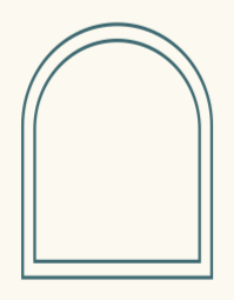
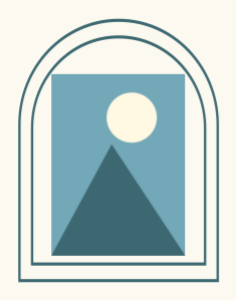
Make bubble annotations and contextual graphic lessons usable

diff --git a/src/creation-library/techniques.js b/src/creation-library/techniques.js
@@ -24,22 +24,26 @@ const fieldHelp={...titleHelp,motif:'rings/spark/sprig/stitch/confetti/materials
 function methodFields(method){
  const base=['write','relate','tear','window','split','weave'].includes(method.recipe)?['id']:common;
  let specific=fields[method.recipe];
- if(method.recipe==='graphic')specific=specific.filter(k=>method.defaults.shape?!['seed','waypoints'].includes(k):k!=='options'&&(k!=='waypoints'||method.defaults.motif==='trail'));
+ if(method.recipe==='graphic'){
+  specific=specific.filter(k=>method.defaults.shape?!['seed','waypoints'].includes(k):k!=='options'&&(k!=='waypoints'||method.defaults.motif==='trail'));
+  if(method.defaults.shape==='bubble')specific=[...specific,'text','fontFamily','fontSizePt'];
+ }
  if(method.recipe==='pattern'&&['echo','bands'].includes(method.defaults.pattern))specific=specific.filter(k=>!['options','strokeWidthMm'].includes(k));
  return [...base,...specific];
 }
 export function describeTechnique(id){
  const method=catalog.methods.find(m=>m.id===id);if(!method)throw Error('未知教程方法');
- const names=methodFields(method),help={...fieldHelp,...titleHelp,...(method.recipe==='accent'?{count:'数字点缀候选数量 1–24；指定 positions 时以其长度为准；避让可能减少实际数量',widthMm:'点缀组局部范围宽度，毫米；不会缩放实体',heightMm:'点缀组局部范围高度，毫米；不会缩放实体'}:{}),...(method.recipe==='tape'?{widthMm:'胶带摆放范围宽度，毫米；不会缩放实体',heightMm:'胶带摆放范围高度，毫米；不会缩放实体'}:{}),corePlace:'可选窗芯位置，使用 layer.update.place 的完整结构。传入时显示并定位窗芯；不传则隐藏保留。位置按裁下窗芯的外接框定位，保留原图裁切来源',strip:'已经放置并对准孔位的真实纸条节点 ID；不缩放或自动拉长',through:'按穿行顺序给 2–16 项 {target,sideAfter:"front"|"back",region? ,window?}；region 用 material.window 的 Region 开新孔，window 引用已有孔 ID，二选一。新孔窗芯隐藏保留；输出报告列出替代后的框与窗芯 ID',...(method.recipe==='write'?{box:'素材局部可写区域 [x,y,width,height]，各值为比例；需先观察图片，避开重要图案',text:'完整正文，最多 500 字；不截断，实际高度需看预览'}:{})};
+ const names=methodFields(method),help={...fieldHelp,...titleHelp,...(method.recipe==='accent'?{count:'数字点缀候选数量 1–24；指定 positions 时以其长度为准；避让可能减少实际数量',widthMm:'点缀组局部范围宽度，毫米；不会缩放实体',heightMm:'点缀组局部范围高度，毫米；不会缩放实体'}:{}),...(method.recipe==='tape'?{widthMm:'胶带摆放范围宽度，毫米；不会缩放实体',heightMm:'胶带摆放范围高度，毫米；不会缩放实体'}:{}),corePlace:'可选窗芯位置，使用 layer.update.place 的完整结构。传入时显示并定位窗芯；不传则隐藏保留。位置按裁下窗芯的外接框定位，保留原图裁切来源',strip:'已经放置并对准孔位的真实纸条节点 ID；不缩放或自动拉长',through:'按穿行顺序给 2–16 项 {target,sideAfter:"front"|"back",region? ,window?}；region 用 material.window 的 Region 开新孔，window 引用已有孔 ID，二选一。新孔窗芯隐藏保留；输出报告列出替代后的框与窗芯 ID',...(method.recipe==='write'?{box:'素材局部可写区域 [x,y,width,height]，各值为比例；需先观察图片，避开重要图案',text:'完整正文，最多 500 字；不截断，实际高度需看预览'}:{}),...(method.defaults.shape==='bubble'?{text:'气泡中的短批注；超出框内可写区域时报错'}:{})};
  if(method.id==='magazine-offset')help.caption='主图下方的可选短图注，仅对应 aliases 首项；不自动编造';
  const example=techniqueExample(method);
- return {...method,parameters:Object.fromEntries(names.map(k=>[k,{description:help[k],required:k==='id'||required[method.recipe].includes(k)||(k==='corePlace'&&method.defaults.reuseCore===true)||(method.id==='graphic-route'&&k==='waypoints')}])),geometryOptions:advancedShapeControls(method.defaults.shape||method.defaults.pattern),example:{materials:exampleMaterials.filter(a=>(example.parameters.aliases||[]).includes(a.alias)||example.before.some(op=>op.asset===a.alias)),prepare:example.before,note:'示例别名和已有节点来自本例准备步骤；实际调用替换成本次素材和节点。'},tool:{name:'creation_recipe',arguments:{kind:'technique',recipeId:id,transactionId:'unique-id',baseSceneRevision:'当前版本',parameters:example.parameters}}};
+ return {...method,parameters:Object.fromEntries(names.map(k=>[k,{description:help[k],required:k==='id'||required[method.recipe].includes(k)||(k==='corePlace'&&method.defaults.reuseCore===true)||(method.id==='graphic-route'&&k==='waypoints')||(method.defaults.shape==='bubble'&&k==='text')}])),geometryOptions:advancedShapeControls(method.defaults.shape||method.defaults.pattern),example:{materials:exampleMaterials.filter(a=>(example.parameters.aliases||[]).includes(a.alias)||example.before.some(op=>op.asset===a.alias)),prepare:example.before,note:'示例别名和已有节点来自本例准备步骤；实际调用替换成本次素材和节点。'},tool:{name:'creation_recipe',arguments:{kind:'technique',recipeId:id,transactionId:'unique-id',baseSceneRevision:'当前版本',parameters:example.parameters}}};
 }
 function validate(method,params){
  libraryID(params.id);const allowed=new Set(methodFields(method));
  for(const key of Object.keys(params))if(!allowed.has(key))throw Error('该方法不支持参数：'+key);
  for(const key of required[method.recipe])if(params[key]===undefined)throw Error('缺少参数：'+key);
  if(method.id==='graphic-route'&&params.waypoints===undefined)throw Error('转折阅读线需要两个以上真实焦点的 waypoints');
+ if(method.defaults.shape==='bubble'&&params.text===undefined)throw Error('气泡批注框需要短文字 text');
  if(method.defaults.reuseCore&&!params.corePlace)throw Error('复用窗芯需要给出 corePlace');
  for(const key of ['widthMm','heightMm','fontSizePt','strokeWidthMm','lengthMm','periodMm'])if(params[key]!==undefined&&(!Number.isFinite(params[key])||params[key]<=0||params[key]>1000))throw Error('尺寸参数无效：'+key);
  for(const key of ['gapMm','amountMm','depthMm'])if(params[key]!==undefined&&(!Number.isFinite(params[key])||params[key]<0||params[key]>200))throw Error('间距参数无效：'+key);
@@ -126,6 +130,13 @@ export function compileTechnique({methodId,parameters,materials=[]}){
  }else if(method.recipe==='graphic'){
   if(p.shape)resolvedShapeOptions(p.shape,p.options);
   shape(p.shape?{kind:p.shape,...(p.options?{options:p.options}:{})}:{kind:'sketch',motif:p.motif,seed:p.seed||17,...(p.waypoints?{waypoints:p.waypoints}:{})},width/2,height/2,width,height,{fill:p.fill??null,stroke:colors[0],strokeWidthMm:p.strokeWidthMm||.65,opacity:p.opacity??1});
+  if(p.shape==='bubble'){
+   const inset=Math.max(2,width*.1),bodyTop=height*.09,bodyBottom=height*.68,bodyWidth=width-2*inset,fontSize=p.fontSizePt??11;
+   if(bodyWidth<=5)throw Error('气泡批注框宽度不足');
+   const contentHeight=measureTextHeight(p.text,bodyWidth,fontSize,font);
+   if(contentHeight>bodyBottom-bodyTop)throw Error('气泡批注文字超出框内可写区域；增大框或缩短文字');
+   text(p.text,inset,bodyTop+(bodyBottom-bodyTop-contentHeight)/2,bodyWidth,{fontSizePt:fontSize,textAlign:'center'});
+  }
  }else if(method.recipe==='pattern'){
   if(p.pattern==='echo'){for(let i=0;i<3;i++)shape('ellipse',width*(.15+i*.35),height*(i===1?.25:.75),3+i,3+i,{fill:colors[i%colors.length]});}
   else if(p.pattern==='bands'){shape('rect',width*.4,height*.5,width*.7,height*.25,{fill:colors[0]});shape('rect',width*.79,height*.5,width*.12,height*.25,{fill:colors[1]||colors[0]});}

diff --git a/tests/creation-library.test.js b/tests/creation-library.test.js
@@ -139,6 +139,17 @@ test('real accent example uses small physical items around a protected focal pho
  assert.deepEqual(compiled.operations[0].children.map(op=>op.asset),example.parameters.aliases);
  assert.ok(example.parameters.aliases.every(alias=>exampleMaterials.find(asset=>asset.alias===alias).physicalWidthMM<exampleMaterials[0].physicalWidthMM));
 });
+test('bubble lesson creates editable text inside the frame and rejects overflow',()=>{
+ const info=describeTechnique('graphic-bubble');
+ assert.equal(info.parameters.text.required,true);
+ assert.equal(info.example.prepare[0].asset,'m1');
+ const compiled=compileTechnique({methodId:'graphic-bubble',parameters:{id:'bubble',text:'这里的光'}});
+ assert.deepEqual(compiled.operations[0].children.map(op=>op.op),['graphic.add','text.add']);
+ assert.equal(compiled.operations[0].children[1].content,'这里的光');
+ assert.throws(()=>compileTechnique({methodId:'graphic-bubble',parameters:{id:'bubble'}}),/需要短文字/);
+ assert.throws(()=>compileTechnique({methodId:'graphic-bubble',parameters:{id:'bubble',text:'这段批注长到不可能放进很小的气泡主体内',widthMm:20,heightMm:12}}),/超出框内可写区域/);
+ for(const id of ['graphic-arch','graphic-scallop-frame','graphic-paperclip'])assert.ok(describeTechnique(id).example.prepare.some(op=>op.op==='material.add'),id+' missing context');
+});
 test('template ranking is deterministic and does not mutate real material dimensions',()=>{
  const input=structuredClone(exampleMaterials),args={materials:input,paper:{width:148,height:210},limit:5};
  assert.deepEqual(rankTemplates(args),rankTemplates(args));assert.deepEqual(input,exampleMaterials);

diff --git a/src/creation-library/examples.js b/src/creation-library/examples.js
@@ -38,6 +38,15 @@ export function techniqueExample(method){
   p.widthMm=34;p.heightMm=34;
   before.push({op:'graphic.add',id:'focal',geometry:{kind:'star',options:{points:5,innerRatio:.5}},place:{reference:'page',at:[72,88],unit:'mm'},size:{width:7,height:7,unit:'mm'},style:{fill:'#E6B45E',stroke:'#3D6871',strokeWidthMm:.25}});
  }
+ if(method.id==='graphic-arch')before.push({op:'material.add',id:'photo',asset:'m1',place:{reference:'page',at:[72,91],unit:'mm'}});
+ if(method.id==='graphic-scallop-frame'){
+  before.push({op:'material.add',id:'note',asset:'m6',place:{reference:'page',at:[72,88],unit:'mm'}});
+ }
+ if(method.id==='graphic-paperclip'){
+  p.at=[51,75];
+  before.push({op:'material.add',id:'note',asset:'m6',place:{reference:'page',at:[72,88],unit:'mm'}});
+ }
+ if(method.id==='graphic-bubble')before.push({op:'material.add',id:'photo',asset:'m1',place:{reference:'page',at:[80,121],unit:'mm'}});
  if(method.recipe==='tape'){
   p.aliases=['m4'];
   if(method.id==='tape-fix')before.push({op:'material.add',id:'photo',asset:'m1',place:{reference:'page',at:[72,107],unit:'mm'}});

diff --git a/docs/CREATION_LIBRARY_AUDIT.md b/docs/CREATION_LIBRARY_AUDIT.md
@@ -195,3 +195,9 @@
 - 旧“真实小物配组”示意把照片和普通卡片当作点缀，与贴纸、票根的介绍不符。示例改为一张中心照片、一件 10×10 mm 花朵贴纸和一件 12×15 mm 小票根；两件小物分处照片右上和左下。示例明确给出照片的保护框，编译报告未跳过任何小物，两件素材保持真实尺寸且不复制。
 - 重新生成并查看 `accent-materials.png`，只有该方法图及其清单哈希改变；这仍是合成示意，不是用户真实素材案例。模板仍为 78 个，后续解析保持暂停。
 - 完整测试 1959 项通过、1 项跳过、0 失败；UI smoke、React 流程与 7 视口路由通过。未进行远程模型自主创作或实体设备验收。
+
+## 承载型图形方法复核
+
+- “拱形承载框”“波浪花边框”“数字回形针”原示意只有孤立轮廓。示例现在分别带照片或便签，拱框示例另留出足够边距；四张受影响示意已渲染查看。拱框只创建透明外沿，不把矩形照片裁成拱形，照片保持原尺寸。
+- “气泡批注框”原工具只能放空框。现在一次 `creation_recipe` 调用生成可分别编辑的气泡与短文字，字号、字体、宽高和尾巴参数可调；未提供文字或文字超出气泡主体时明确拒绝。示例将尾巴指向照片，并在生成图中检查文字与照片位置。
+- 三个边框/固定点方法的介绍改为说明与素材的关系和可检查的结果，避免只罗列几何参数。模板仍为 78 个，后续解析继续暂停；完整测试 1960 项通过、1 项跳过、0 失败，UI smoke、React 流程及 7 视口路由通过。尚未做远程模型自主创作或实体设备验收。
